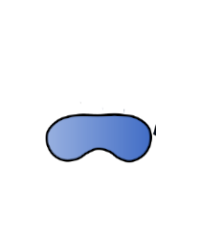
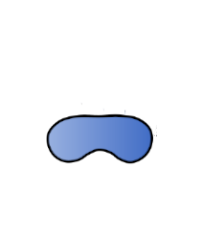
Greyscaled lenses & Recentered sleep mask (#652)

Changed region(s): [[0.21, 0.487, 0.72, 0.6696], [0.57, 0.5478, 0.78, 0.7304], [0.27, 0.6391, 0.57, 0.7304]]

diff --git a/BondageClub/Assets/Female3DCG/Female3DCG.js b/BondageClub/Assets/Female3DCG/Female3DCG.js
@@ -1696,7 +1696,7 @@ var AssetFemale3DCG = [
 			{ Name: "DogHood", DefaultColor: "#404040", Random: false, Effect: ["Prone", "GagNormal"], Hide: ["HairFront", "HairBack", "Glasses", "ItemMouth", "ItemMouth2", "ItemMouth3", "HairAccessory1", "HairAccessory2"], Block: ["ItemMouth", "ItemMouth2", "ItemMouth3", "ItemEars"], Difficulty: 50, Value: 60, Time: 15, AllowLock: true },
 			{ Name: "FoxyMask", Random: false, Effect: ["Prone", "GagLight"], Hide: ["Glasses", "ItemMouth", "ItemMouth2", "ItemMouth3"], Block: ["ItemMouth", "ItemMouth2", "ItemMouth3"], Difficulty: 2, Value: 50, Time: 15, AllowLock: true },
 			{ Name: "SleepMask", Effect: ["BlindLight", "Prone"], Hide: ["Glasses"], Value: 5, Time: 5 },
-			{ Name: "BlackoutLenses", Random: false, Effect: ["BlindHeavy", "Prone"], Hide: ["Glasses", "Eyes"], Difficulty: 10, Value: 60 }
+			{ Name: "BlackoutLenses", DefaultColor: "#333333", Random: false, Effect: ["BlindHeavy", "Prone"], Hide: ["Glasses", "Eyes"], Difficulty: 10, Value: 60 }
 		]
 	},
 
